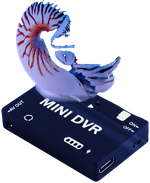
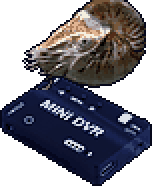
Pixel-art nautilus + camcorder traced from photos; light spectrum replaces the DNA helix
Claude-Session: https://claude.ai/code/session_01M8Juc6vv2kRwVzJNAuyEW1

diff --git a/app/gr8w95.py b/app/gr8w95.py
@@ -486,21 +486,41 @@ class Backdrop(tk.Canvas):
         pass
 
 
+def _wave_rgb(nm):
+    """Visible wavelength (380-700 nm) -> (r, g, b) 0..1, with the usual edge fall-off."""
+    if nm < 440:
+        r, g, b = -(nm - 440) / 60, 0.0, 1.0
+    elif nm < 490:
+        r, g, b = 0.0, (nm - 440) / 50, 1.0
+    elif nm < 510:
+        r, g, b = 0.0, 1.0, -(nm - 510) / 20
+    elif nm < 580:
+        r, g, b = (nm - 510) / 70, 1.0, 0.0
+    elif nm < 645:
+        r, g, b = 1.0, -(nm - 645) / 65, 0.0
+    else:
+        r, g, b = 1.0, 0.0, 0.0
+    f = 0.35 + 0.65 * (nm - 380) / 40 if nm < 420 else 0.35 + 0.65 * (700 - nm) / 50 if nm > 650 else 1.0
+    return tuple(max(0.0, c * f) ** 0.8 for c in (r, g, b))
+
+
+def _hex(rgb):
+    return '#%02x%02x%02x' % tuple(max(0, min(255, int(c))) for c in rgb)
+
+
 class Helix(Backdrop):
-    """Data conversion as a DNA double helix flowing from a camcorder into a nautilus.
-    states: idle (slow spin), scan (gentle flow), busy (fast flow + REC lamp), ok (white flash, sparkles), error (red shake)"""
-    # base pairs from the key art: pearl-cobalt, cobalt-pearl, lavender-nautilus rust, rust-lavender
-    BASES = [('#f0ede6', '#5b8cf0'), ('#5b8cf0', '#f0ede6'), ('#a9b2ec', '#c95a3c'), ('#c95a3c', '#a9b2ec')]
-    STRANDS = ('#fbfaff', '#8fb4ff')
+    """Data conversion as a beam of light leaving the camcorder and opening into the visible spectrum
+    (violet -> red) on its way to the nautilus; the spectrum grows left to right with the progress.
+    states: idle (faint, breathing), scan (a pulse of light runs along), busy (spectrum grows with progress,
+    white flare at the tip), ok (full bright spectrum + sparkles), error (dims to red and shudders)"""
+    BG = (4, 16, 74)                                         # blend target (the panel's mid blue)
 
     def __init__(self, parent, cam_png, store_png, height=104, **kw):
         super().__init__(parent, floor=False, stars=1.4, seed=3, height=height, **kw)
-        import random
         self.cam = tk.PhotoImage(file=cam_png)
         self.store = tk.PhotoImage(file=store_png)
-        self.seq = [random.randrange(4) for _ in range(400)]
-        self.state, self.phase, self.flow, self.t, self.until = 'idle', 0.0, 0.0, 0, 0
-        self.progress = 0.0
+        self.state, self.t, self.until = 'idle', 0, 0
+        self.progress, self.shown = 0.0, 0.0
         self.sparks = []
         self._anim()
 
@@ -509,8 +529,13 @@ class Helix(Backdrop):
         self.until = self.t + hold
         if s == 'ok':
             import random
-            self.sparks = [(random.uniform(-40, 40), random.uniform(-40, 30), random.randrange(4, 22))
-                           for _ in range(14)]
+            self.sparks = [(random.uniform(-46, 40), random.uniform(-42, 36), random.randrange(4, 22))
+                           for _ in range(16)]
+
+    def _col(self, rgb, k, white=0.0):
+        """rgb 0..1 at brightness k (0 = panel blue, 1 = full), optionally pushed toward white."""
+        r, g, b = (c + (1 - c) * white for c in rgb)
+        return _hex([bg + (c * 255 - bg) * k for c, bg in zip((r, g, b), self.BG)])
 
     def _anim(self):
         import math
@@ -518,71 +543,83 @@ class Helix(Backdrop):
         if self.until and self.t >= self.until and self.state in ('ok', 'error'):
             self.state, self.until = 'idle', 0
         st = self.state
-        self.phase += {'idle': 0.05, 'scan': 0.09, 'busy': 0.2}.get(st, 0.12)
-        self.flow += {'scan': 1.0, 'busy': 3.5}.get(st, 0.0)
+        self.after(40, self._anim)
+        if not self.winfo_ismapped() and self.t > 2:
+            return
         self.delete('dna')
         W = max(self.winfo_width(), 200)
-        H = max(self.winfo_height(), int(self['height']))
-        if not self.winfo_ismapped() and self.t > 2:
-            self.after(200, self._anim)
-            return
+        H = max(self.winfo_height(), int(self.winfo_fpixels(self['height'])))
         cy = H // 2 + 2
+        from gr8core import scene                                 # blend toward the backdrop colour at the beam
+        f_y = cy / H
+        st_ = scene.STOPS
+        for (a0, c0), (a1, c1) in zip(st_, st_[1:]):
+            if a0 <= f_y <= a1:
+                u = (f_y - a0) / (a1 - a0)
+                self.BG = tuple(c0[i] + (c1[i] - c0[i]) * u for i in range(3))
+                break
         cw, sw = self.cam.width(), self.store.width()
-        x0, x1 = cw + 14, W - sw - 14
+        x0, x1 = cw + 10, W - sw - 6
+        span = max(1, x1 - x0)
         shake = math.sin(self.t * 2.3) * 3 if st == 'error' else 0
-        self.create_image(6, cy, image=self.cam, anchor='w', tags='dna')
-        if st == 'busy' and self.t // 6 % 2:                     # blinking REC lamp
-            self.create_rectangle(6 + 66, cy - 33 + 27, 6 + 69, cy - 33 + 30, fill='#e2603f', outline='', tags='dna')
-        A, k, step = 26, 0.065, 5
-        rung = 14
-        pts = []
-        for x in range(x0, x1, step):
-            a = k * x - self.phase
-            fade = min(1.0, (x - x0) / 40, (x1 - x) / 40)
-            pts.append((x, cy + shake + A * math.sin(a) * fade, cy + shake - A * math.sin(a) * fade, math.cos(a)))
-        # rungs (base pairs), drawn first so strands sit on top
-        for x, ya, yb, z in pts:
-            if (x - x0) % rung >= step:
-                continue
-            idx = int((x - x0 - self.flow) // rung) % len(self.seq)
-            c1, c2 = self.BASES[self.seq[idx]]
+        self.create_image(4, cy, image=self.cam, anchor='w', tags='dna')
+        # how much of the spectrum is lit
+        if st == 'busy':
+            target = self.progress
+        elif st == 'ok':
+            target = 1.0
+        else:
+            target = 0.0
+        self.shown += (target - self.shown) * 0.18
+        head = x0 + span * self.shown
+        breathe = 0.5 + 0.5 * math.sin(self.t / 9)
+        pulse_x = x0 + (self.t * 6) % (span + 60) - 30                  # travelling light for scan / waiting
+        for x in range(x0, x1, 2):
+            f = (x - x0) / span
+            rgb = _wave_rgb(380 + 320 * f)
             if st == 'error':
-                c1 = c2 = '#e2603f'
-            elif st == 'ok' and self.until - self.t > 10:
-                c1 = c2 = '#fbfaff'
-            elif st == 'idle':
-                c1, c2 = _dim(c1), _dim(c2)
-            ym = (ya + yb) / 2
-            self.create_line(x, ya, x, ym, fill=c1, width=2, tags='dna')
-            self.create_line(x, ym, x, yb, fill=c2, width=2, tags='dna')
-        # strands: back half first, then front half
-        for front in (False, True):
-            for x, ya, yb, z in pts:
-                for y, zz, col in ((ya, z, self.STRANDS[0]), (yb, -z, self.STRANDS[1])):
-                    if (zz > 0) == front:
-                        r = 1.5 + 1.5 * (zz + 1) / 2
-                        c = col if zz > 0 else _dim(col)
-                        self.create_oval(x - r, y - r, x + r, y + r, fill=c, outline='', tags='dna')
-        sx = W - sw - 6
+                rgb = (0.95, 0.22 + 0.1 * math.sin(x / 7 + self.t), 0.16)
+            spread = 0.35 + 0.65 * min(1.0, f * 3)                       # thin at the lens, opens like a prism fan
+            wave = math.sin(x / 9 - self.t / 3) * 0.5 + math.sin(x / 23 + self.t / 5) * 0.5
+            hb = (4 + 9 * spread) * (1 + 0.18 * wave)
+            lit = x <= head or st == 'error'
+            if lit:
+                k = 1.0 if st != 'idle' else 0.55
+                if st == 'ok' and self.until - self.t > 50:
+                    k, white = 1.0, 0.55
+                else:
+                    white = 0.0
+            else:
+                k, white = (0.16 + 0.10 * breathe) if st in ('idle', 'busy') else 0.14, 0.0
+                if st in ('scan', 'busy') and abs(x - pulse_x) < 26:
+                    k = max(k, 0.85 * (1 - abs(x - pulse_x) / 26))
+                    white = 0.3
+            if st == 'error' and (self.t // 3) % 2:
+                k *= 0.5
+            y = cy + shake + math.sin(x / 15 - self.t / 4) * 2 * spread
+            self.create_line(x, y - hb * 1.7, x, y + hb * 1.7, fill=self._col(rgb, k * 0.35), width=2, tags='dna')
+            self.create_line(x, y - hb, x, y + hb, fill=self._col(rgb, k, white), width=2, tags='dna')
+            self.create_line(x, y - 1, x, y + 1, fill=self._col(rgb, k, min(1, white + 0.6)), width=2, tags='dna')
+        # the source glow at the lens, and the flare at the growing tip
+        lens = (x0 - 4, cy + shake)
+        for r, k in ((7, .25), (4, .6), (2, 1)):
+            self.create_oval(lens[0] - r, lens[1] - r, lens[0] + r, lens[1] + r, fill=self._col((1, 1, 1), k),
+                             outline='', tags='dna')
+        if st == 'busy' and x0 < head < x1 - 2:
+            hx, hy = head, cy + math.sin(head / 15 - self.t / 4) * 2
+            L = 9 + 4 * math.sin(self.t / 2)
+            self.create_line(hx - L, hy, hx + L, hy, fill='#ffffff', tags='dna')
+            self.create_line(hx, hy - L, hx, hy + L, fill='#ffffff', tags='dna')
+            self.create_oval(hx - 3, hy - 3, hx + 3, hy + 3, fill='#ffffff', outline='', tags='dna')
+        sx = W - sw - 4
         self.create_image(sx, cy, image=self.store, anchor='w', tags='dna')
-        if st in ('busy', 'scan'):                               # pearls appear under the nautilus = progress
-            done = int(self.progress * 6 + 0.001)
-            py = min(H - 6, cy + self.store.height() // 2 + 2)
-            for i in range(6):
-                x = sx + sw / 2 - 25 + i * 10
-                lit = i < done or (i == done and self.t // 4 % 2)
-                col = '#fbfaff' if i < done else '#8fb4ff' if lit else '#1b2766'
-                self.create_oval(x - 3, py - 3, x + 3, py + 3, fill=col, outline='', tags='dna')
-                if i < done:
-                    self.create_oval(x - 2, py - 2, x, py, fill='#ffffff', outline='', tags='dna')
         if st == 'ok':
             left = self.until - self.t
             for dx, dy, ph in self.sparks:
                 if (self.t + ph) % 8 < 5 and left > 0:
                     x, y = sx + sw / 2 + dx, cy + dy
                     self.create_line(x - 4, y, x + 5, y, fill='#fbfaff', tags='dna')
-                    self.create_line(x, y - 4, x, y + 5, fill='#8fb4ff', tags='dna')
-        self.after(40, self._anim)
+                    self.create_line(x, y - 4, x, y + 5, fill='#c9d8ff', tags='dna')
 
 
 def _dim(hexcol, k=0.45):

diff --git a/tools/make_sprites.py b/tools/make_sprites.py
@@ -1,0 +1,90 @@
+#!/usr/bin/env python3
+"""Pixel-art sprites traced from reference photos (background removed, palette-limited, 1px outline):
+nautilus_px.png + camcorder_px.png for the light-beam panel, nautilus_dvr(.png/_small.png) for the
+Firmware Builder sidebar. Needs opencv-python-headless + scipy (build time only)."""
+import os, subprocess, sys
+import numpy as np
+import cv2
+from PIL import Image, ImageFilter
+from scipy import ndimage as ndi
+
+HERE = os.path.dirname(os.path.abspath(__file__))
+ART = os.path.join(HERE, 'art')
+D = os.path.join(HERE, '..', 'app', 'gr8core', 'data')
+OUTLINE = (6, 8, 26, 255)
+
+
+def biggest(m):
+    lbl, n = ndi.label(m)
+    if n == 0:
+        return m
+    return lbl == 1 + np.argmax(ndi.sum(m, lbl, range(1, n + 1)))
+
+
+def cut_dark_bg(path, thr=34):
+    """Subject on a black background (nautilus photo)."""
+    im = Image.open(path).convert('RGB'); a = np.asarray(im).astype(np.float32)
+    lum = a.max(-1)
+    m = lum > thr
+    m = ndi.binary_opening(m, iterations=2)
+    m = biggest(m)
+    m = ndi.binary_fill_holes(ndi.binary_closing(m, iterations=6))
+    rgba = im.convert('RGBA'); rgba.putalpha(Image.fromarray((m * 255).astype(np.uint8)).filter(ImageFilter.GaussianBlur(1)))
+    return rgba.crop(rgba.getbbox())
+
+
+def cut_grabcut(path, rect):
+    """Subject on a light studio background (camcorder photo)."""
+    bgr = cv2.imread(path); mask = np.zeros(bgr.shape[:2], np.uint8)
+    b, f = np.zeros((1, 65)), np.zeros((1, 65))
+    cv2.grabCut(bgr, mask, rect, b, f, 10, cv2.GC_INIT_WITH_RECT)
+    m = biggest((mask == 1) | (mask == 3))
+    m = ndi.binary_fill_holes(ndi.binary_closing(m, iterations=2))
+    rgba = Image.open(path).convert('RGBA'); rgba.putalpha(Image.fromarray((m * 255).astype(np.uint8)))
+    return rgba.crop(rgba.getbbox())
+
+
+def pixelize(rgba, grid_w, colors, scale, sat=1.12, contrast=1.06, sharpen=80):
+    """Downsample to a pixel grid (alpha-aware), crisp it up, quantise to a small palette, add a 1px outline."""
+    from PIL import ImageEnhance
+    gh = round(rgba.height * grid_w / rgba.width)
+    small = rgba.resize((grid_w, gh), Image.LANCZOS)
+    al = np.asarray(small)[..., 3]
+    rgb = small.convert('RGB')
+    if sharpen:
+        rgb = rgb.filter(ImageFilter.UnsharpMask(radius=1, percent=sharpen, threshold=2))
+    rgb = ImageEnhance.Contrast(ImageEnhance.Color(rgb).enhance(sat)).enhance(contrast)
+    rgbq = np.asarray(rgb.quantize(colors, method=Image.Quantize.MEDIANCUT, dither=Image.Dither.NONE).convert('RGB'))
+    on = al > 110
+    out = np.zeros((gh, grid_w, 4), np.uint8)
+    out[on, :3] = rgbq[on]; out[on, 3] = 255
+    out[ndi.binary_dilation(on) & ~on] = OUTLINE
+    return Image.fromarray(out, 'RGBA').resize((grid_w * scale, gh * scale), Image.NEAREST)
+
+
+def main():
+    naut = cut_dark_bg(os.path.join(ART, 'nautilus-photo.jpg'))
+    naut.save('/tmp/_naut_cut.png')
+    cam = cut_grabcut(os.path.join(ART, 'camcorder-photo.jpg'), (30, 8, 490, 352))
+    cam.save('/tmp/_cam_cut.png')
+    pixelize(naut, 56, 24, 2).save(os.path.join(D, 'nautilus_px.png'))
+    pixelize(cam, 56, 20, 2, sat=1.0).save(os.path.join(D, 'camcorder_px.png'))
+    # sidebar: pixel nautilus resting on the pixel Mini DVR (from the tinted DVR cutout)
+    dvr_png = '/tmp/_dvr_tinted.png'
+    subprocess.run([sys.executable, os.path.join(HERE, 'cutout_dvr.py'), os.path.join(ART, 'minidvr-photo.png'),
+                    dvr_png, '900', '--tint'], check=True, stdout=subprocess.DEVNULL)
+    dvr = Image.open(dvr_png).convert('RGBA')
+    for scale, name, gw_d, gw_n in ((2, 'nautilus_dvr.png', 76, 62), (1, 'nautilus_dvr_small.png', 76, 62)):
+        dv = pixelize(dvr, gw_d, 20, scale, sat=1.0, contrast=1.0, sharpen=40)
+        nt = pixelize(naut, gw_n, 24, scale)
+        W = max(dv.width, nt.width)
+        H = dv.height + nt.height - 8 * scale
+        im = Image.new('RGBA', (W, H), (0, 0, 0, 0))
+        im.alpha_composite(dv, ((W - dv.width) // 2, H - dv.height))
+        im.alpha_composite(nt, ((W - nt.width) // 2 + 4 * scale, 0))
+        im.save(os.path.join(D, name))
+    print('sprites written')
+
+
+if __name__ == '__main__':
+    main()

diff --git a/app/gr8dvr.py b/app/gr8dvr.py
@@ -349,8 +349,8 @@ class ClipTab:
         top.pack(fill='x')
         hb = w.Bevel(top, 'sunken', bg=DK)
         hb.pack(side='left')
-        self.helix = w.Helix(hb.inner, asset('camcorder.png'), asset('nautilus_real.png'),
-                             width=430, height=94)
+        self.helix = w.Helix(hb.inner, asset('camcorder_px.png'), asset('nautilus_px.png'),
+                             width=480, height=94)
         self.helix.pack()
         hd = tk.Frame(top)
         hd.pack(side='left', fill='both', expand=True, padx=(12, 0))

diff --git a/tools/make_art.py b/tools/make_art.py
@@ -124,5 +124,5 @@ def nautilus_assets():
 
 
 if __name__ == '__main__':
-    splash(); about(); oy = sidebar(); nautilus_assets()
+    splash(); about(); oy = sidebar()        # sprites (nautilus, camcorder, sidebar icon): make_sprites.py
     print('art written; sidebar image offset', oy)
